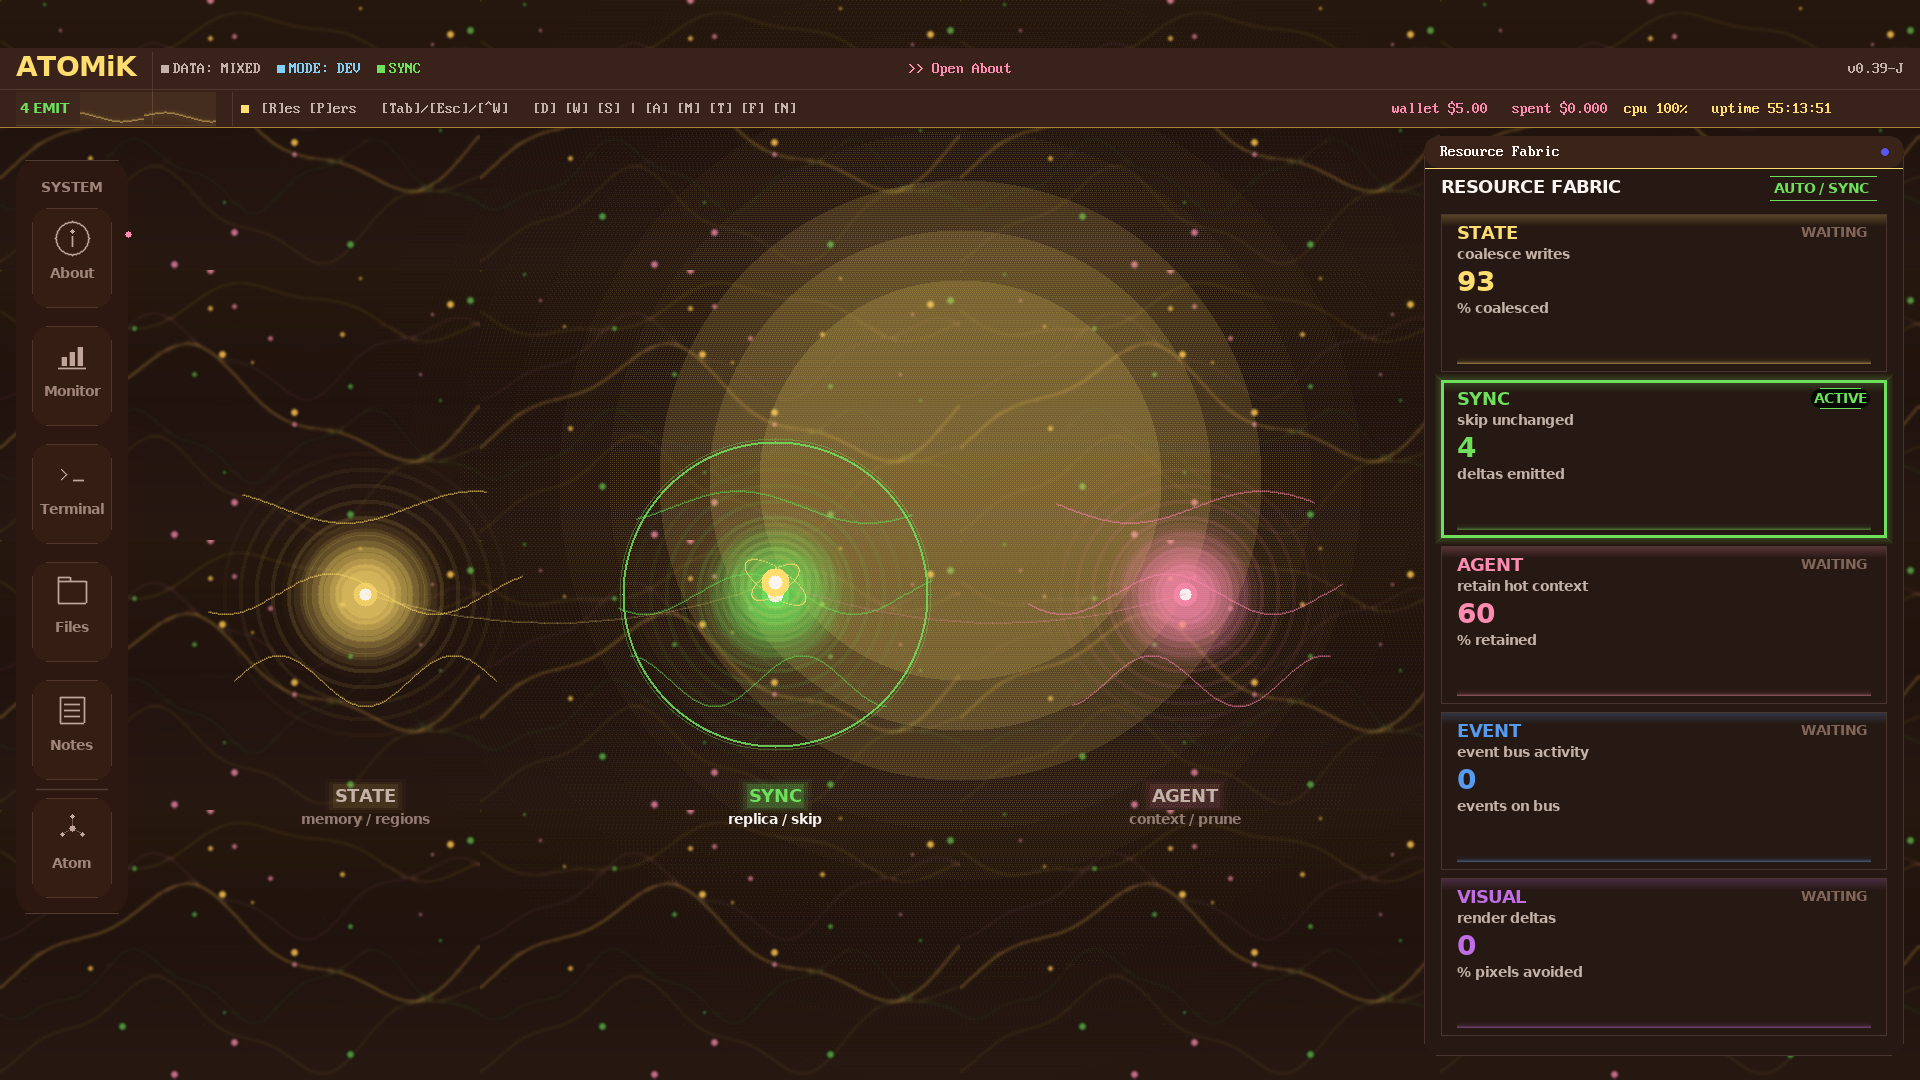
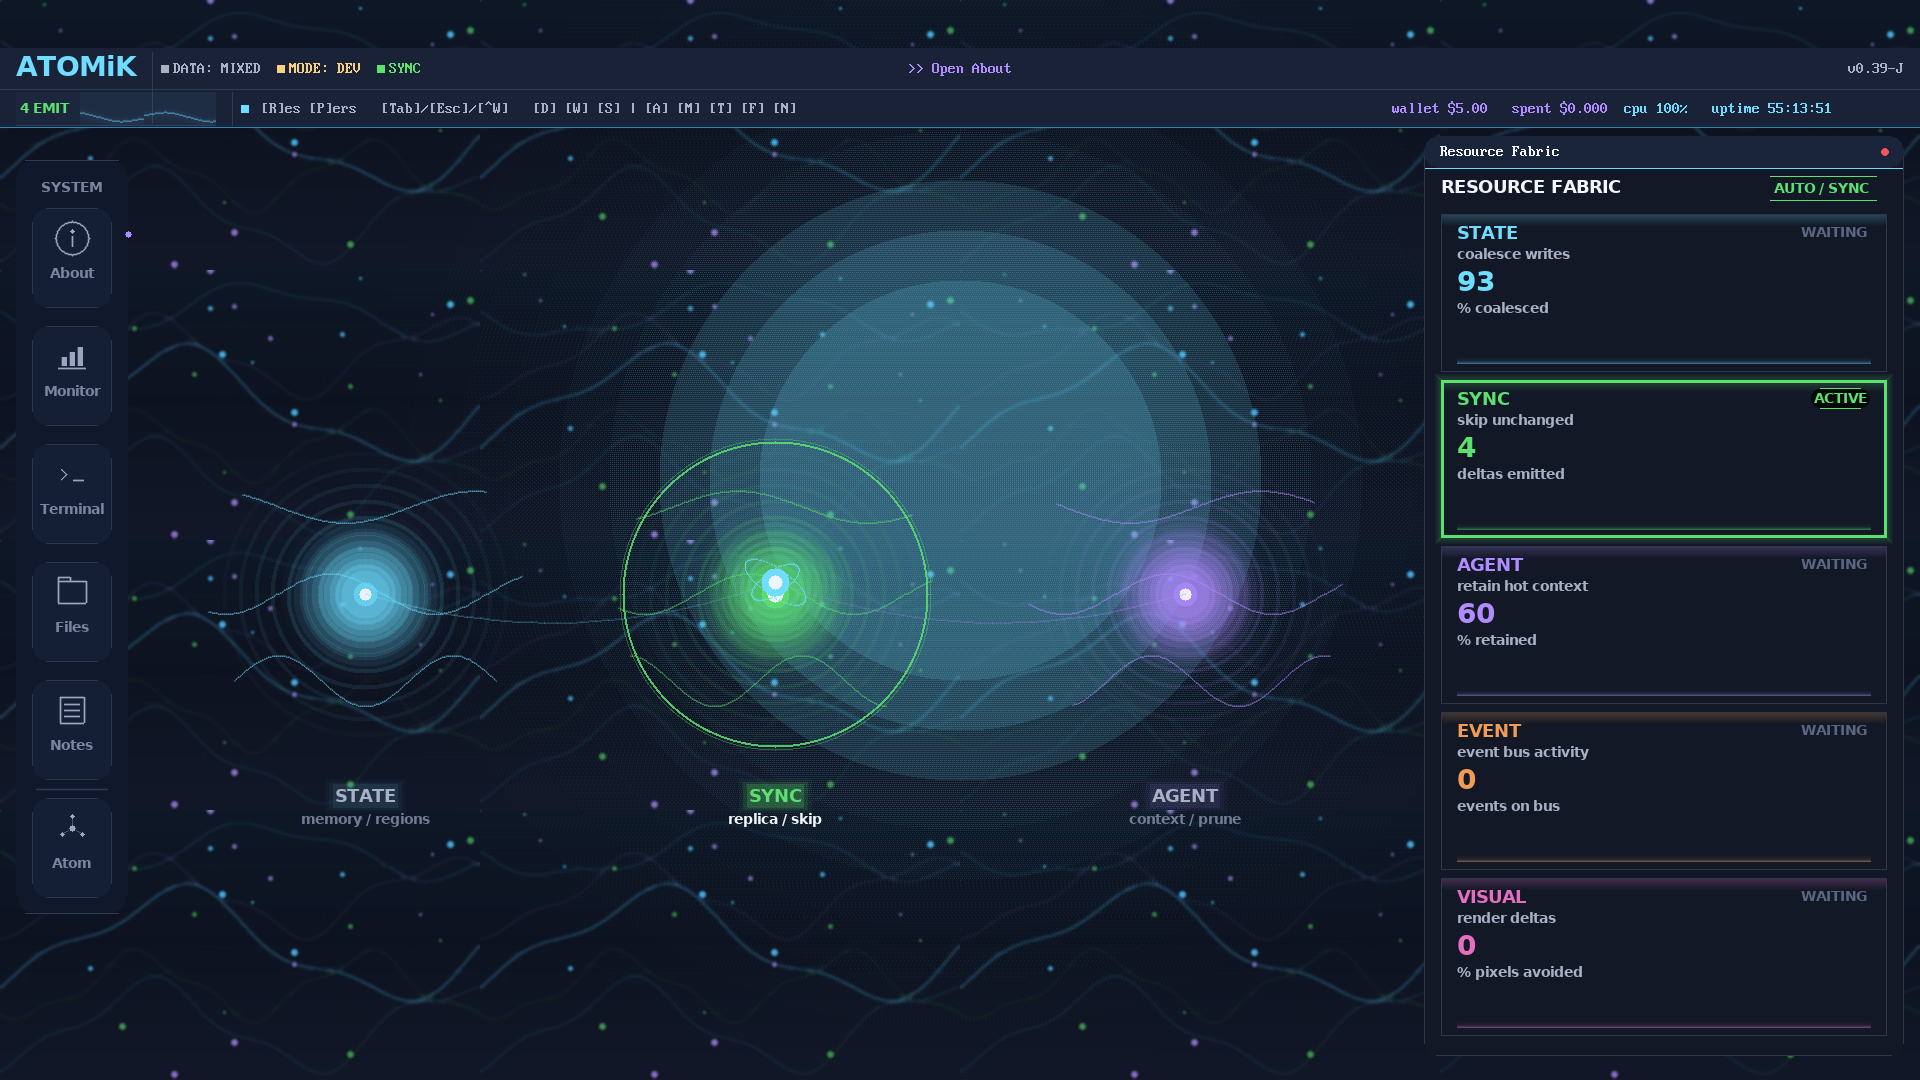
ui: fix R<->B swap in published proof image + rail thumbnails (OS palette was already correct)
The 'warm/awkward' ATOMiK Desk look was NOT in the product — it was an R<->B channel
swap introduced by a manual screenshot export. Verified end-to-end the OS renders the
correct cool navy/cyan palette (code 0x00RRGGBB, assets XRGB, LiteX fb unpack r=[16:24],
raw fb2png capture is cool). The swapped v0.39-K rail became the site-wide OG image +
homepage hero. Republished website/public/09-current-live-atomik-desk-v039k.png from the
correct raw capture; un-swapped J/K rail thumbnails. Corrected the concept audit, which
had based its #1 'warm palette' gap on the swapped image (now struck).

diff --git a/docs/design/v039k_vs_concept_audit.md b/docs/design/v039k_vs_concept_audit.md
@@ -1,24 +1,39 @@
 # ATOMiK Desk — v0.39-K vs Concept Coherence Audit
 
-**Date:** 2026-05-28
+**Date:** 2026-05-28 (CORRECTED 2026-05-29)
 **Compared:** `atomik_os/docs/screenshots/deploy_v0.39-K_rail.png` against `docs/design/concept_images/01-06`
 **Purpose:** identify specific deltas between current hardware UI and the ATOMiK Desk concept art; feeds v0.40 roadmap.
+
+> **2026-05-29 CORRECTION — the "warm palette" finding was an artifact, not a real gap.**
+> This audit was performed against `deploy_v0.39-K_rail.png`, which had its **R and B
+> channels swapped** by a broken manual screenshot export (verified: the rail PNG was the
+> raw `deploy_20260521_031311_v0.39-K.png` with R↔B swapped, mean per-channel diff 0.20).
+> The OS actually renders the **correct cool navy/cyan palette** — confirmed end-to-end:
+> code palette is `0x00RRGGBB` (cyan `0x6EDDFF`), assets are cool, the LiteX framebuffer
+> unpacks `r=word[16:24] g=[8:16] b=[0:8]` (XRGB), and the *raw* fb2png capture is cool.
+> The swap made cyan→gold, violet→pink, navy→brown. The rail thumbnails and the published
+> website image have been un-swapped. **Palette is NOT a v0.40 gap** — strike item #1 below.
+> The remaining items (waveforms, hero, surface routing, pulse pills) stand.
 
 ## Per-Concept Gap Analysis
 
 | Concept | Current state | Fidelity (0-100) | Net-new work |
 |---|---|---:|---|
-| 01 atomik_desk_home | Shell present (Cap Rail, Fabric, Pulse Bar); missing centered hero, twin glass panels, cool palette | 42 | palette pass, hero composition |
+| 01 atomik_desk_home | Shell present (Cap Rail, Fabric, Pulse Bar), palette already cool/correct; missing centered hero + twin glass panels | 42 | hero composition (palette = DONE, was a capture artifact) |
 | 02 document_surface | Document app exists as window per README; not lifted into shell as full surface | 15 | route Document through shell |
 | 03 replica_flow | Delta-log + cross-device sync ship per README v1.0; no Replica Flow surface | 8 | net-new surface (reuses substrate) |
 | 04 agent_surface | Adaptive dock + Markov agent ship; no Agent surface rendered | 10 | net-new surface (reuses substrate) |
 | 05 build_lane | Terminal app exists; no Build Lane surface | 5 | net-new surface (reuses terminal) |
 | 06 adaptive_mode | 3-orb STATE/SYNC/AGENT hero present; missing triptych, mode-card stack, Adaptive Balance ledger | 22 | hero composition + balance ledger |
 
-## Top 5 Highest-Impact Gaps for v0.40
+## Top Highest-Impact Gaps for v0.40 (palette struck — see correction above)
 
-1. **Palette + glass-panel chrome** — current is warm amber/brown, concept is cool navy/cyan with translucent glass panels and inner glow rims. Single highest-leverage change; touches every surface.
-2. **Fabric lane waveforms** — concept Fabric cards show live sparkline waveforms behind numerics; v0.39-K shows only numbers. Add per-lane scrolling waveform.
+1. ~~**Palette + glass-panel chrome**~~ — STRUCK. The OS palette is already cool/correct
+   (`0x00RRGGBB`, cyan `0x6EDDFF`); the "warm" look was an R↔B swap in a broken screenshot
+   export, now fixed. The **glass-panel chrome** half is still partly real: concept panels
+   have translucent fills + inner-glow rims; current panels are flatter. Fold that into the
+   hero/surface work rather than a palette pass.
+2. **Fabric lane waveforms** — concept Fabric cards show live sparkline waveforms behind numerics; v0.39-K shows only numbers. Add per-lane scrolling waveform. (Sine-pulse source already exists — see "Do Not Regress".)
 3. **Home-surface center hero** — concept anchors on "ATOMiK Desk / Idle-Ready / twin glass panels"; v0.39-K idle is a 3-orb scene. Reframe idle to introduce the system before showing activity.
 4. **Surface routing for Document / Replica Flow / Build Lane** — three full-frame surfaces need to render inside the desk shell rather than as separate windows or not at all.
 5. **Pulse Bar telemetry pills** — concept top bar has 4 distinctly compartmentalized + labeled glass pills; v0.39-K bar lacks the compartments + glow rims.
